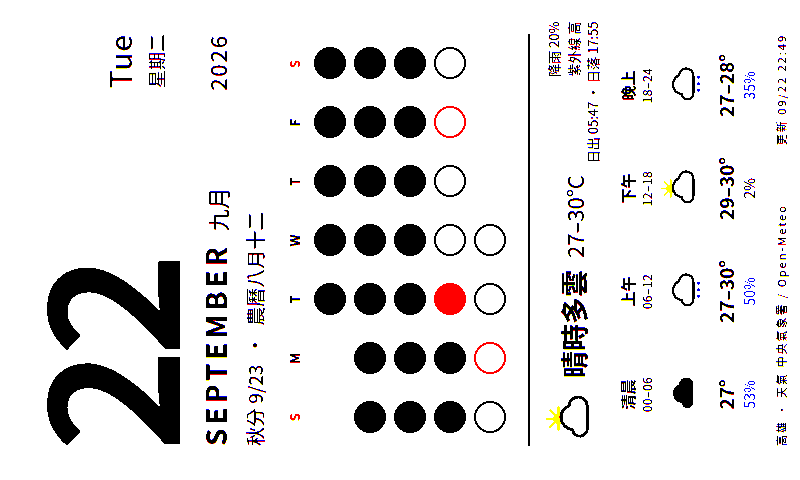
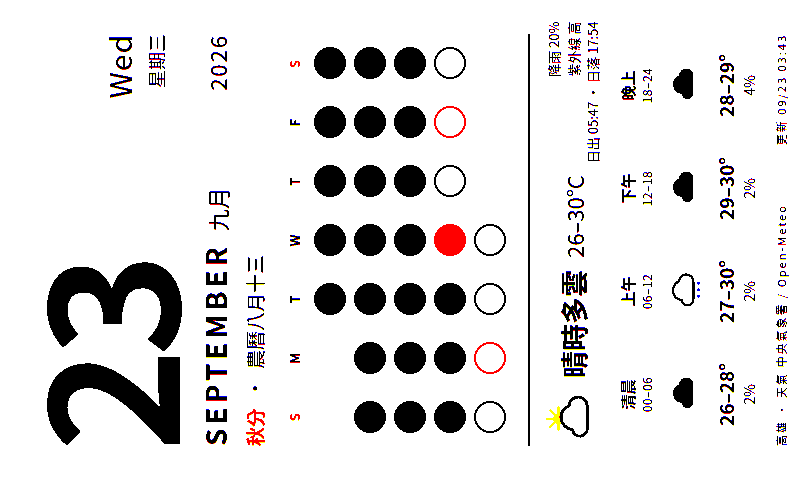
deploy: cf7d1051eb6821bc691ba0ade4beb12cdf9fe0ef

diff --git a/calendar.html b/calendar.html
@@ -47,16 +47,16 @@
 </style></head>
 <body><div class="page">
   <div class="head">
-    <div class="num">22</div>
-    <div class="wd"><div class="en">Tue</div><div class="zh">星期二</div></div>
+    <div class="num">23</div>
+    <div class="wd"><div class="en">Wed</div><div class="zh">星期三</div></div>
   </div>
   <div class="month"><span class="en">SEPTEMBER</span><span class="zh">九月</span><span class="yr">2026</span></div>
-  <div class="today"><span class="lunar">秋分 9/23</span><span>·</span><span class="lunar">農曆八月十二</span></div>
-  <div class="grid"><div class="h we">S</div><div class="h">M</div><div class="h">T</div><div class="h">W</div><div class="h">T</div><div class="h">F</div><div class="h we">S</div><div class="dot empty"></div><div class="dot empty"></div><div class="dot past" title="1"></div><div class="dot past" title="2"></div><div class="dot past" title="3"></div><div class="dot past" title="4"></div><div class="dot past" title="5"></div><div class="dot past" title="6"></div><div class="dot past" title="7"></div><div class="dot past" title="8"></div><div class="dot past" title="9"></div><div class="dot past" title="10"></div><div class="dot past" title="11"></div><div class="dot past" title="12"></div><div class="dot past" title="13"></div><div class="dot past" title="14"></div><div class="dot past" title="15"></div><div class="dot past" title="16"></div><div class="dot past" title="17"></div><div class="dot past" title="18"></div><div class="dot past" title="19"></div><div class="dot past" title="20"></div><div class="dot past" title="21"></div><div class="dot now" title="22"></div><div class="dot future" title="23"></div><div class="dot future" title="24"></div><div class="dot future hol" title="25"></div><div class="dot future" title="26"></div><div class="dot future" title="27"></div><div class="dot future hol" title="28"></div><div class="dot future" title="29"></div><div class="dot future" title="30"></div></div>
+  <div class="today"><span class="hl">秋分</span><span>·</span><span class="lunar">農曆八月十三</span></div>
+  <div class="grid"><div class="h we">S</div><div class="h">M</div><div class="h">T</div><div class="h">W</div><div class="h">T</div><div class="h">F</div><div class="h we">S</div><div class="dot empty"></div><div class="dot empty"></div><div class="dot past" title="1"></div><div class="dot past" title="2"></div><div class="dot past" title="3"></div><div class="dot past" title="4"></div><div class="dot past" title="5"></div><div class="dot past" title="6"></div><div class="dot past" title="7"></div><div class="dot past" title="8"></div><div class="dot past" title="9"></div><div class="dot past" title="10"></div><div class="dot past" title="11"></div><div class="dot past" title="12"></div><div class="dot past" title="13"></div><div class="dot past" title="14"></div><div class="dot past" title="15"></div><div class="dot past" title="16"></div><div class="dot past" title="17"></div><div class="dot past" title="18"></div><div class="dot past" title="19"></div><div class="dot past" title="20"></div><div class="dot past" title="21"></div><div class="dot past" title="22"></div><div class="dot now" title="23"></div><div class="dot future" title="24"></div><div class="dot future hol" title="25"></div><div class="dot future" title="26"></div><div class="dot future" title="27"></div><div class="dot future hol" title="28"></div><div class="dot future" title="29"></div><div class="dot future" title="30"></div></div>
   <div class="wx"><div class="line">
-    <div class="wxhead"><svg viewBox="0 0 64 68" xmlns="http://www.w3.org/2000/svg"><g transform="translate(12 -4) scale(.6)"><circle cx="32" cy="32" r="11" fill="#f5c400"/><g stroke="#f5c400" stroke-width="4" stroke-linecap="round"><line x1="32" y1="32" x2="32" y2="8" transform="rotate(0 32 32)"/><line x1="32" y1="32" x2="32" y2="8" transform="rotate(45 32 32)"/><line x1="32" y1="32" x2="32" y2="8" transform="rotate(90 32 32)"/><line x1="32" y1="32" x2="32" y2="8" transform="rotate(135 32 32)"/><line x1="32" y1="32" x2="32" y2="8" transform="rotate(180 32 32)"/><line x1="32" y1="32" x2="32" y2="8" transform="rotate(225 32 32)"/><line x1="32" y1="32" x2="32" y2="8" transform="rotate(270 32 32)"/><line x1="32" y1="32" x2="32" y2="8" transform="rotate(315 32 32)"/></g></g><path d="M20 50h26a11 11 0 0 0 1-22 15 15 0 0 0-29 4 9 9 0 0 0 2 18z" fill="#fff" stroke="#000" stroke-width="3.5" stroke-linejoin="round"/></svg><span class="desc">晴時多雲</span><span class="temp">27–30°C</span>
-      <div class="meta">降雨 20%<br>紫外線 高<br>日出 05:47 · 日落 17:55</div></div>
-    <div class="slots"><div class="slot"><div class="n">清晨</div><div class="hrs">00–06</div><svg viewBox="0 0 64 68" xmlns="http://www.w3.org/2000/svg"><path d="M20 50h26a11 11 0 0 0 1-22 15 15 0 0 0-29 4 9 9 0 0 0 2 18z" fill="#000"/></svg><div class="t">27°</div><div class="p ">53%</div></div><div class="slot"><div class="n">上午</div><div class="hrs">06–12</div><svg viewBox="0 0 64 68" xmlns="http://www.w3.org/2000/svg"><path d="M20 50h26a11 11 0 0 0 1-22 15 15 0 0 0-29 4 9 9 0 0 0 2 18z" fill="#fff" stroke="#000" stroke-width="3.5" stroke-linejoin="round"/><g fill="#0040ff"><circle cx="24" cy="58" r="2.2"/><circle cx="34" cy="58" r="2.2"/><circle cx="44" cy="58" r="2.2"/></g></svg><div class="t">27–30°</div><div class="p ">50%</div></div><div class="slot"><div class="n">下午</div><div class="hrs">12–18</div><svg viewBox="0 0 64 68" xmlns="http://www.w3.org/2000/svg"><g transform="translate(12 -4) scale(.6)"><circle cx="32" cy="32" r="11" fill="#f5c400"/><g stroke="#f5c400" stroke-width="4" stroke-linecap="round"><line x1="32" y1="32" x2="32" y2="8" transform="rotate(0 32 32)"/><line x1="32" y1="32" x2="32" y2="8" transform="rotate(45 32 32)"/><line x1="32" y1="32" x2="32" y2="8" transform="rotate(90 32 32)"/><line x1="32" y1="32" x2="32" y2="8" transform="rotate(135 32 32)"/><line x1="32" y1="32" x2="32" y2="8" transform="rotate(180 32 32)"/><line x1="32" y1="32" x2="32" y2="8" transform="rotate(225 32 32)"/><line x1="32" y1="32" x2="32" y2="8" transform="rotate(270 32 32)"/><line x1="32" y1="32" x2="32" y2="8" transform="rotate(315 32 32)"/></g></g><path d="M20 50h26a11 11 0 0 0 1-22 15 15 0 0 0-29 4 9 9 0 0 0 2 18z" fill="#fff" stroke="#000" stroke-width="3.5" stroke-linejoin="round"/></svg><div class="t">29–30°</div><div class="p dry">2%</div></div><div class="slot"><div class="n">晚上</div><div class="hrs">18–24</div><svg viewBox="0 0 64 68" xmlns="http://www.w3.org/2000/svg"><path d="M20 50h26a11 11 0 0 0 1-22 15 15 0 0 0-29 4 9 9 0 0 0 2 18z" fill="#fff" stroke="#000" stroke-width="3.5" stroke-linejoin="round"/><g fill="#0040ff"><circle cx="24" cy="58" r="2.2"/><circle cx="34" cy="58" r="2.2"/><circle cx="44" cy="58" r="2.2"/></g></svg><div class="t">27–28°</div><div class="p ">35%</div></div></div>
+    <div class="wxhead"><svg viewBox="0 0 64 68" xmlns="http://www.w3.org/2000/svg"><g transform="translate(12 -4) scale(.6)"><circle cx="32" cy="32" r="11" fill="#f5c400"/><g stroke="#f5c400" stroke-width="4" stroke-linecap="round"><line x1="32" y1="32" x2="32" y2="8" transform="rotate(0 32 32)"/><line x1="32" y1="32" x2="32" y2="8" transform="rotate(45 32 32)"/><line x1="32" y1="32" x2="32" y2="8" transform="rotate(90 32 32)"/><line x1="32" y1="32" x2="32" y2="8" transform="rotate(135 32 32)"/><line x1="32" y1="32" x2="32" y2="8" transform="rotate(180 32 32)"/><line x1="32" y1="32" x2="32" y2="8" transform="rotate(225 32 32)"/><line x1="32" y1="32" x2="32" y2="8" transform="rotate(270 32 32)"/><line x1="32" y1="32" x2="32" y2="8" transform="rotate(315 32 32)"/></g></g><path d="M20 50h26a11 11 0 0 0 1-22 15 15 0 0 0-29 4 9 9 0 0 0 2 18z" fill="#fff" stroke="#000" stroke-width="3.5" stroke-linejoin="round"/></svg><span class="desc">晴時多雲</span><span class="temp">26–30°C</span>
+      <div class="meta">降雨 20%<br>紫外線 高<br>日出 05:47 · 日落 17:54</div></div>
+    <div class="slots"><div class="slot"><div class="n">清晨</div><div class="hrs">00–06</div><svg viewBox="0 0 64 68" xmlns="http://www.w3.org/2000/svg"><path d="M20 50h26a11 11 0 0 0 1-22 15 15 0 0 0-29 4 9 9 0 0 0 2 18z" fill="#000"/></svg><div class="t">26–28°</div><div class="p dry">2%</div></div><div class="slot"><div class="n">上午</div><div class="hrs">06–12</div><svg viewBox="0 0 64 68" xmlns="http://www.w3.org/2000/svg"><path d="M20 50h26a11 11 0 0 0 1-22 15 15 0 0 0-29 4 9 9 0 0 0 2 18z" fill="#fff" stroke="#000" stroke-width="3.5" stroke-linejoin="round"/><g fill="#0040ff"><circle cx="24" cy="58" r="2.2"/><circle cx="34" cy="58" r="2.2"/><circle cx="44" cy="58" r="2.2"/></g></svg><div class="t">27–30°</div><div class="p dry">2%</div></div><div class="slot"><div class="n">下午</div><div class="hrs">12–18</div><svg viewBox="0 0 64 68" xmlns="http://www.w3.org/2000/svg"><path d="M20 50h26a11 11 0 0 0 1-22 15 15 0 0 0-29 4 9 9 0 0 0 2 18z" fill="#000"/></svg><div class="t">29–30°</div><div class="p dry">2%</div></div><div class="slot"><div class="n">晚上</div><div class="hrs">18–24</div><svg viewBox="0 0 64 68" xmlns="http://www.w3.org/2000/svg"><path d="M20 50h26a11 11 0 0 0 1-22 15 15 0 0 0-29 4 9 9 0 0 0 2 18z" fill="#000"/></svg><div class="t">28–29°</div><div class="p dry">4%</div></div></div>
   </div></div>
-  <div class="foot"><span>高雄 · 天氣 中央氣象署 / Open-Meteo</span><span>更新 09/22 22:49</span></div>
+  <div class="foot"><span>高雄 · 天氣 中央氣象署 / Open-Meteo</span><span>更新 09/23 03:43</span></div>
 </div></body></html>
